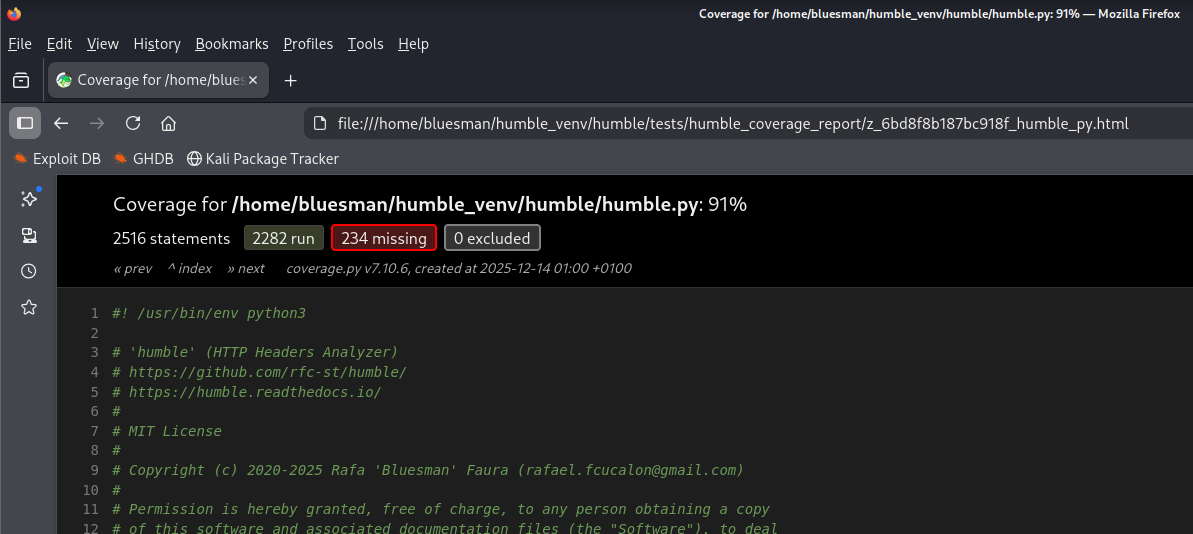
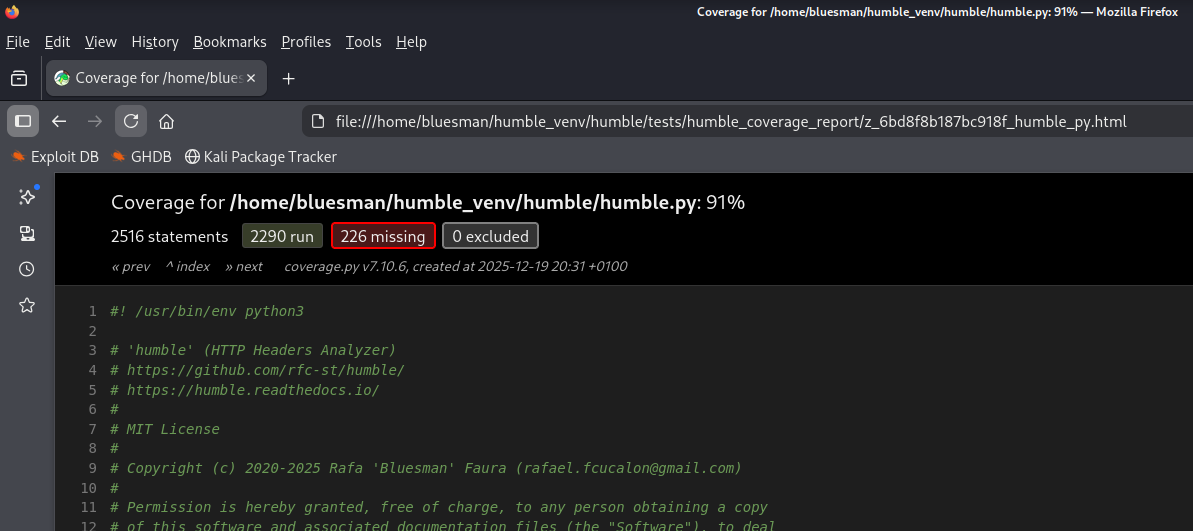
Feature: 1 new unit test

diff --git a/tests/test_humble.py b/tests/test_humble.py
@@ -17,6 +17,8 @@ PYTEST_CACHE_DIRS = [
     path.join(HUMBLE_TESTS_DIR, d)
     for d in ['__pycache__', '.pytest_cache']
 ]
+HUMBLE_CSP_FILE = path.abspath(path.join(HUMBLE_TESTS_DIR,
+                                         'headers_test_csp.txt'))
 HUMBLE_DESC = "Basic unit tests for 'humble' (HTTP Headers Analyzer)"
 HUMBLE_PROJECT_ROOT = path.abspath(path.join(HUMBLE_TESTS_DIR, '..'))
 HUMBLE_HEADERS_FILE = path.abspath(path.join(HUMBLE_TESTS_DIR,
@@ -72,6 +74,8 @@ TEST_CFGS = {
     'test_cicd_analysis': (['-u', TEST_URLS[9], '-cicd'], 'Analysis Grade'),
     'test_client_error_response': (['-if', HUMBLE_CLIENTERROR_FILE, '-u',
                                     TEST_URLS[1]], 'HTTP code'),
+    'test_csp_corner_cases': (['-if', HUMBLE_CSP_FILE, '-u', TEST_URLS[2]],
+                              'Analysis Grade'),
     'test_detailed_analysis': (['-u', TEST_URLS[9]], 'Analysis Grade:'),
     'test_export_csv': (['-u', TEST_URLS[9], '-o', 'csv'], 'CSV saved'),
     'test_export_html': (['-u', TEST_URLS[9], '-o', 'html', '-r'],
@@ -131,8 +135,9 @@ TEST_SUMMS = ('[test_help]', '[test_all_headers]', '[test_unsafe_all_headers]',
               '[test_grade_b_headers]', '[test_grade_c_headers]',
               '[test_grade_d_headers]', '[test_grade_e_headers]',
               '[test_brief_analysis]', '[test_cicd_analysis]',
-              '[test_client_error_response]', '[test_detailed_analysis]',
-              '[test_export_csv]', '[test_export_html]', '[test_export_json]',
+              '[test_client_error_response]', '[test_csp_corner_cases]',
+              '[test_detailed_analysis]', '[test_export_csv]',
+              '[test_export_html]', '[test_export_json]',
               '[test_export_json_brief]', '[test_export_pdf]',
               '[test_export_xlsx]', '[test_export_xml]',
               '[test_fingerprint_groups]', '[test_fingerprint_term]',

diff --git a/humble.py b/humble.py
@@ -123,7 +123,7 @@ RE_PATTERN = (
     r'\(humble_pdf_style\)([^:]+):',
     r'<meta\s+http-equiv=["\'](.*?)["\']\s+content=["\'](.*?)["\']\s*/?>',
     r'\(humble_sec_style\)([^:]+)', r'\(humble_sec_style\)',
-    r'(?: Nota : | Note : )', r'^[0-9a-fA-F]{32}$', r'^[A-Za-z0-9+/=]+$',
+    r'(?: Nota : | Note : )', r'^[0-9a-fA-F]{1,31}$', r'^[A-Za-z0-9+/=]+$',
     r', (?=[^;,]+?=)', r"'nonce-[^']+'", r"(^|[\s;])({dir})($|[\s;])",
     r"'(sha256|sha384|sha512)-([A-Za-z0-9+/=]+)'",
     r"(?<!')\b(sha256|sha384|sha512)-[A-Za-z0-9+/=]+(?!')",
